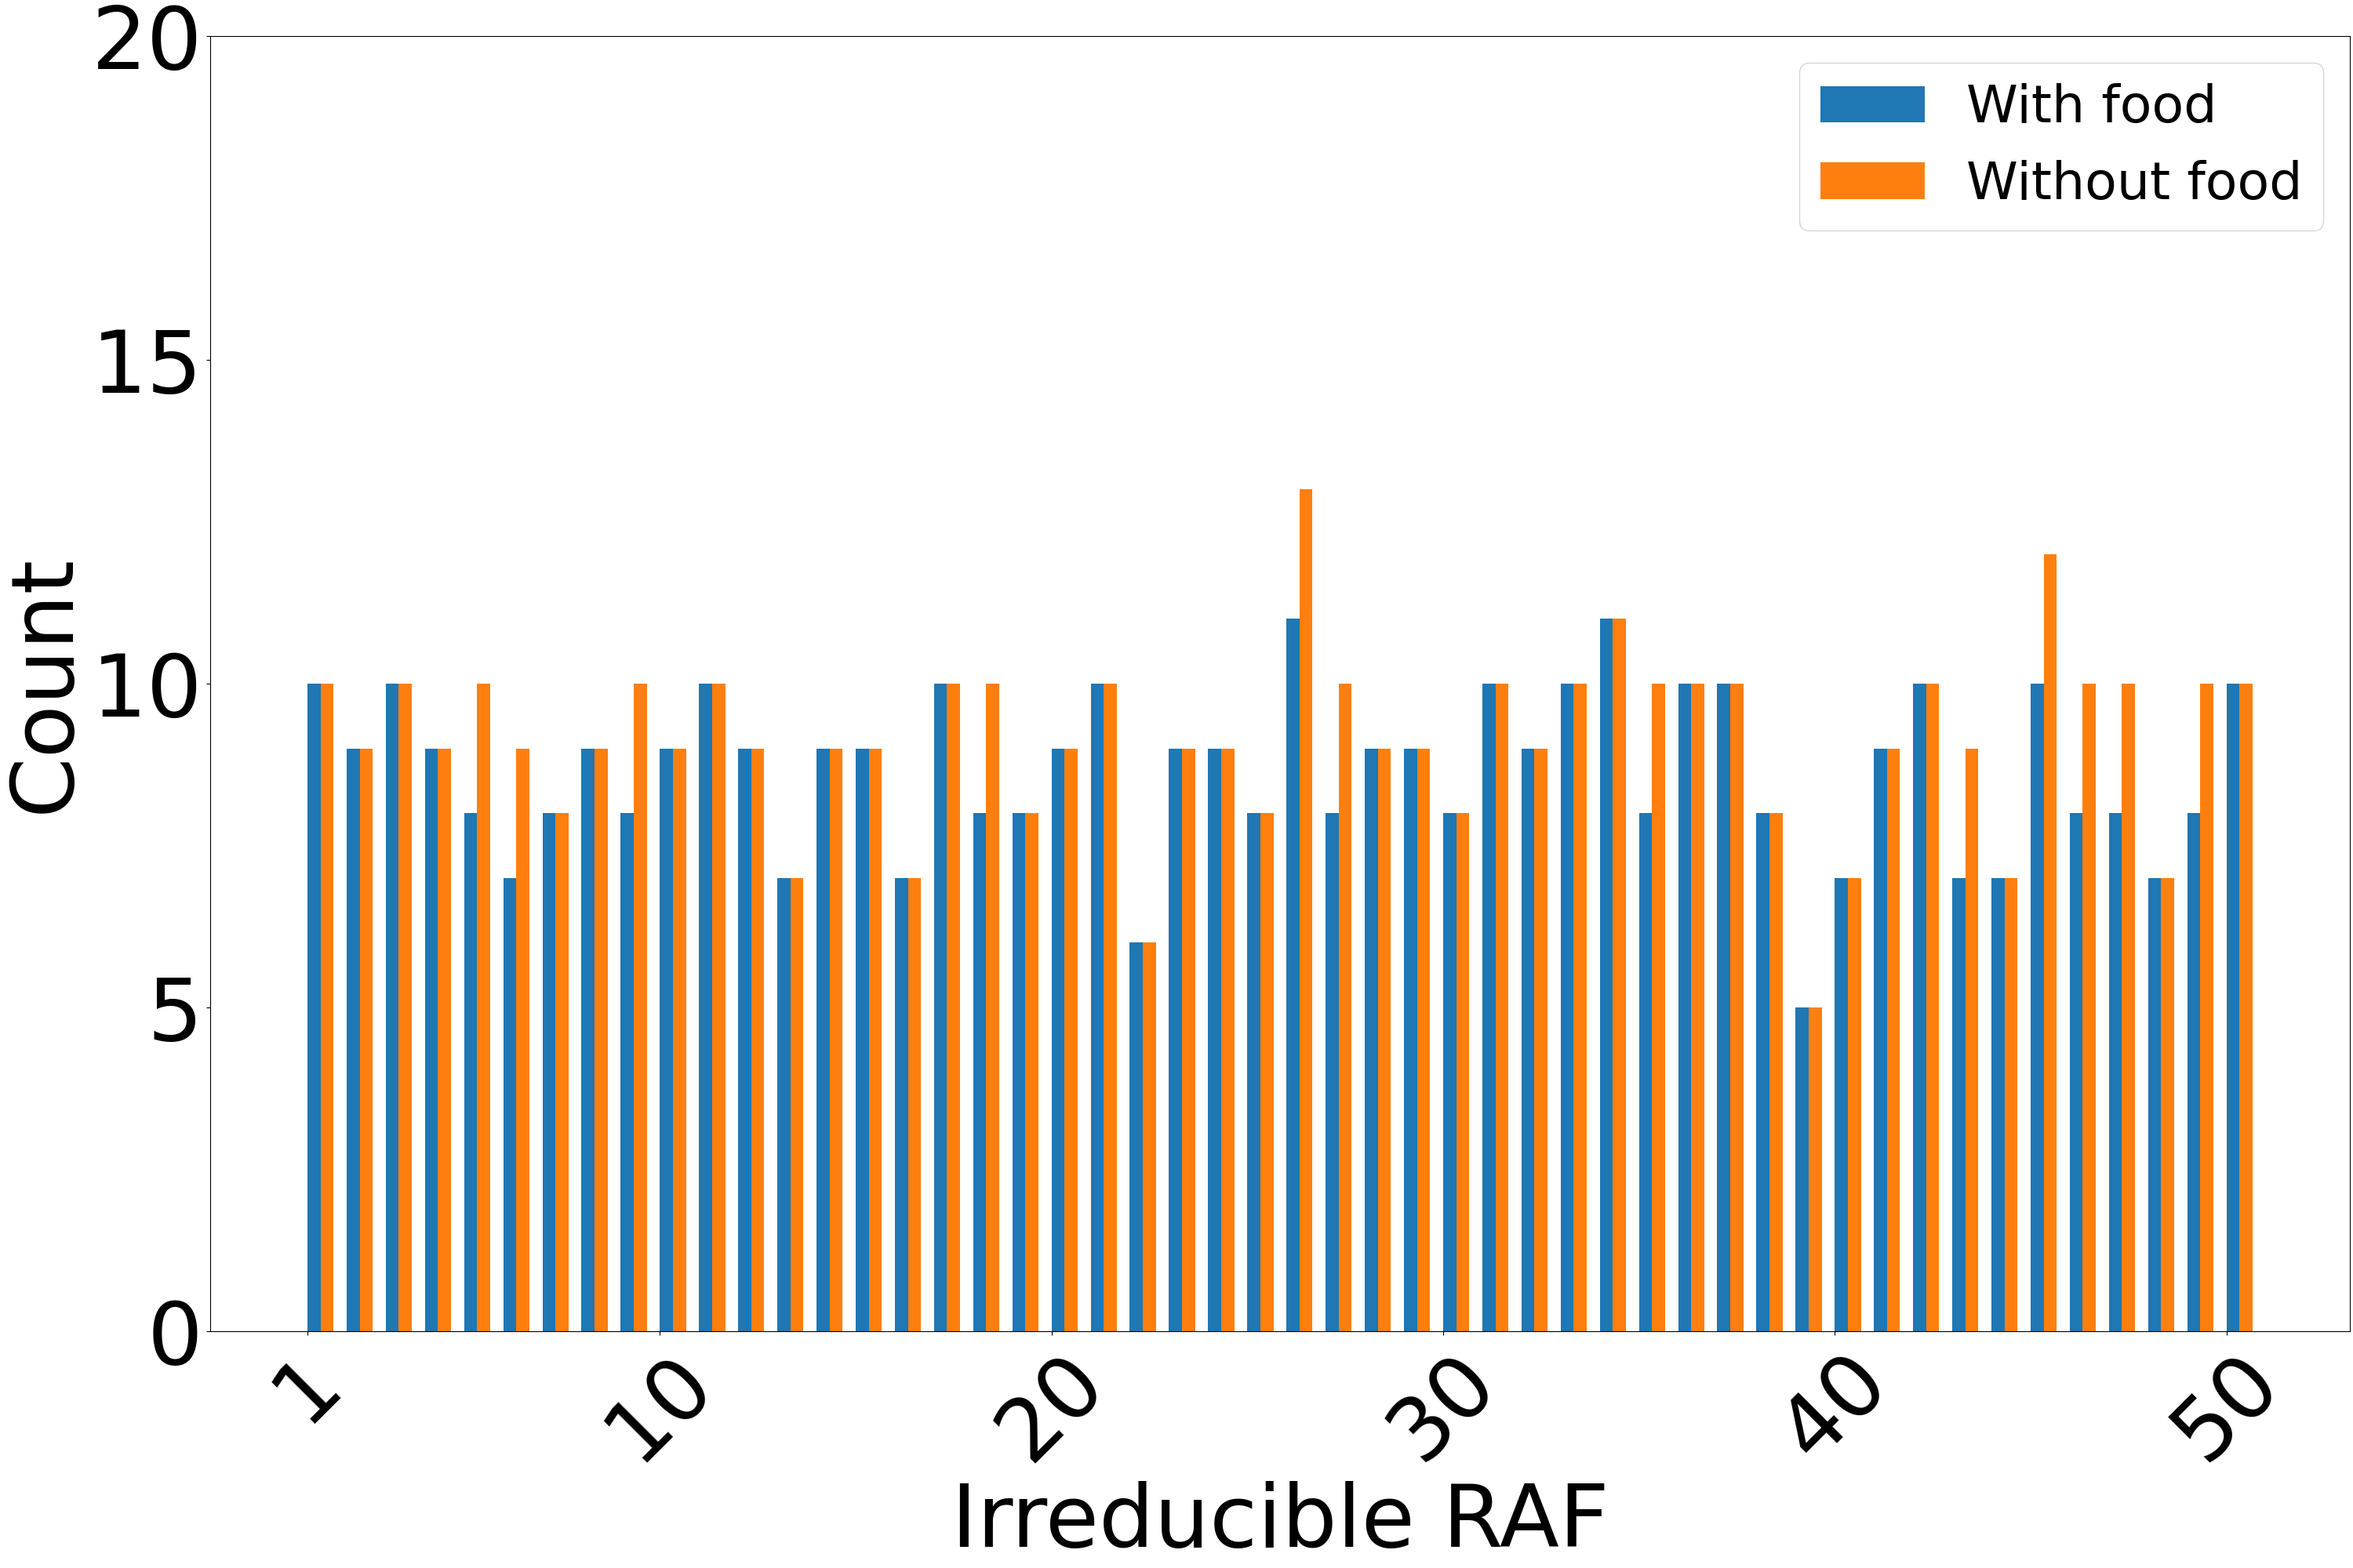
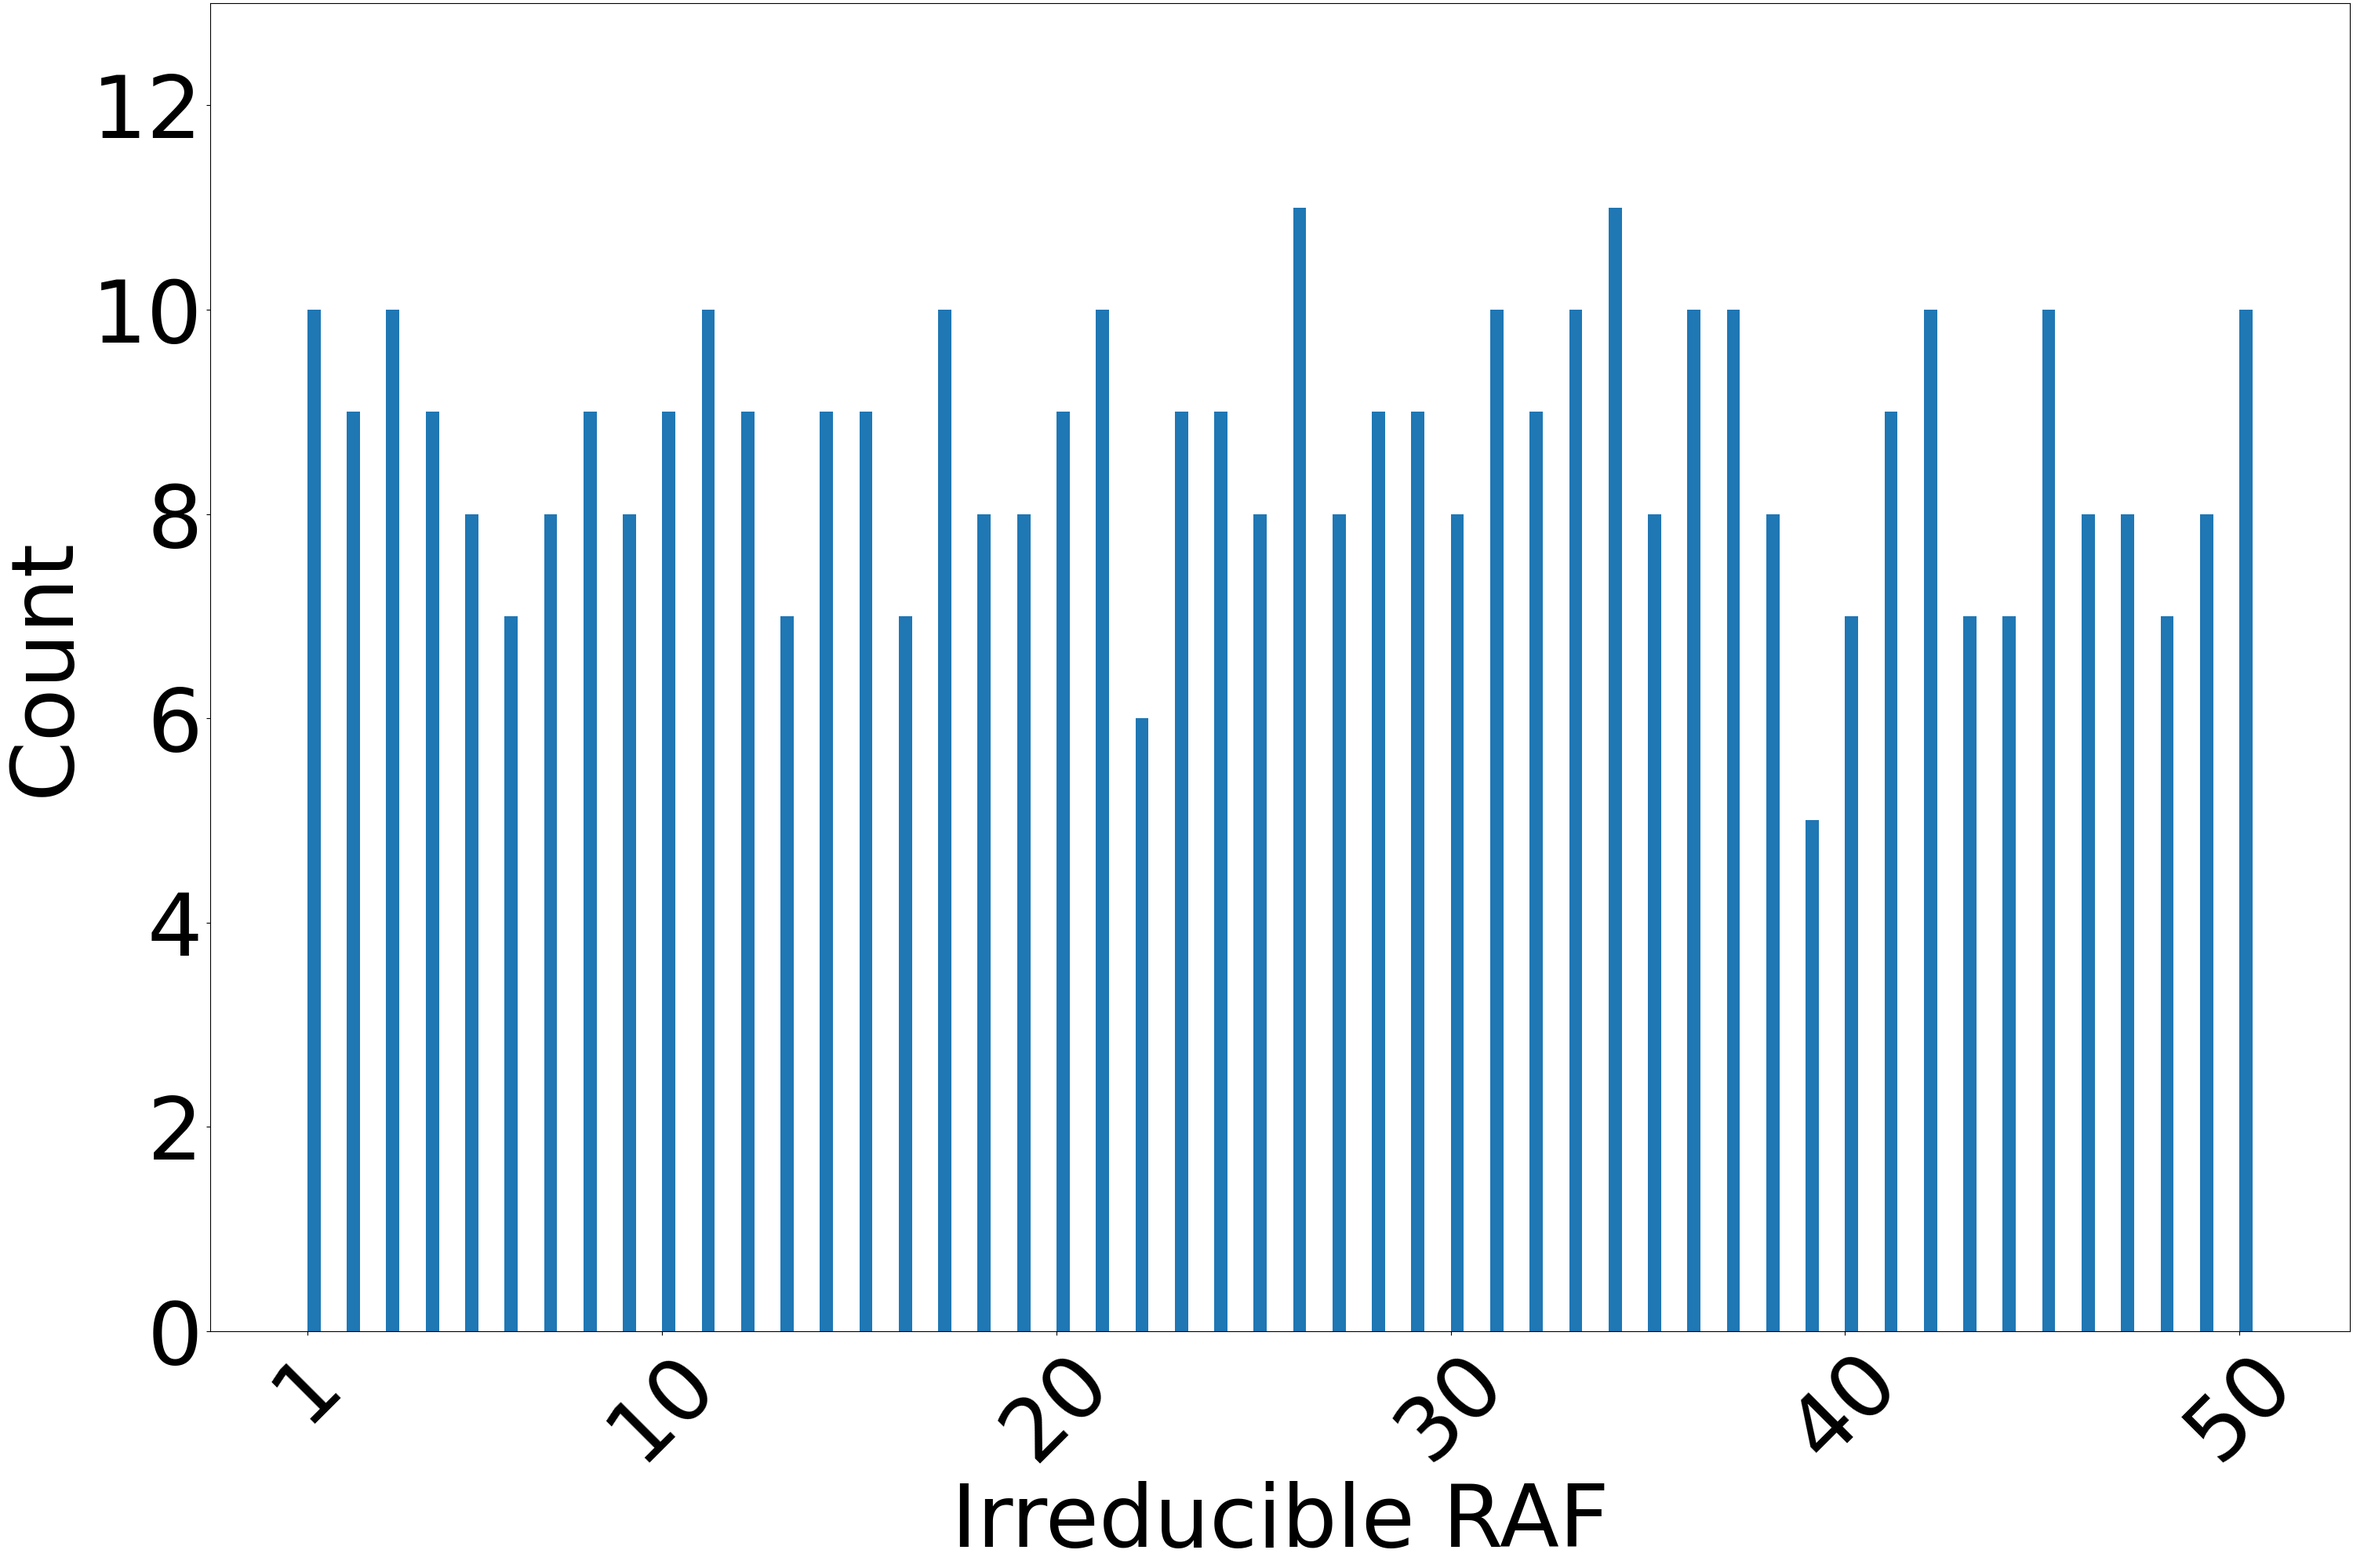
.

diff --git a/RAFCores.tex b/RAFCores.tex
@@ -351,12 +351,12 @@ which we investigate the structural properties of irreducible RAFs.
     \centering
     \begin{minipage}[c]{0.5\textwidth}
       \centering
-      \includegraphics[width=0.9\textwidth]{./Pictures/IrrRAFCoresn5rev1.png}
+      \includegraphics[width=0.9\textwidth]{./Pictures/n6iRAFCoresWFood.png}
     \end{minipage}%
     \hfill%
     \begin{minipage}[c]{0.5\textwidth}
       \centering
-      \includegraphics[width=0.9\textwidth]{./Pictures/IrrRAFCoresn5rev2.png}
+      \includegraphics[width=0.9\textwidth]{./Pictures/n7iRAFirrevCoresWFood.png}
     \end{minipage}
   \end{minipage}
 %  \begin{minipage}[c]{\textwidth}
@@ -1424,18 +1424,18 @@ maximal strong block that contains at least one non-food, non-waste species-vert
 	\begin{minipage}[c]{\textwidth}	
 		\begin{minipage}[c]{0.5\textwidth}
 			\centering
-			\includegraphics[width=\textwidth]{./Pictures/IrrRAFCoresn5rev1WithVsWithoutFood.png}
+			\includegraphics[width=\textwidth]{./Pictures/n6iRAFrevSplitWithVsWOFood.png}
 		\end{minipage}%
 		\hfill%
 		\begin{minipage}[c]{0.5\textwidth}
 			\centering
-			\includegraphics[width=\textwidth]{./Pictures/IrrRAFCoresn5rev2WithVsWithoutFood.png}
+			\includegraphics[width=\textwidth]{./Pictures/n7iRAFirrevWithVsWOFood.png}
 		\end{minipage}
 	\end{minipage}
 	\begin{minipage}[c]{\textwidth}	
 		\begin{minipage}[c]{0.5\textwidth}
 			\centering
-			\includegraphics[width=\textwidth]{./Pictures/n5Rev1StrongBlocks.png}
+			\includegraphics[width=\textwidth]{./Pictures/n6iRAFrevWFoodRelevantStrongBlocks.png}
 		\end{minipage}%
 		\hfill%
 		\begin{minipage}[c]{0.5\textwidth}
